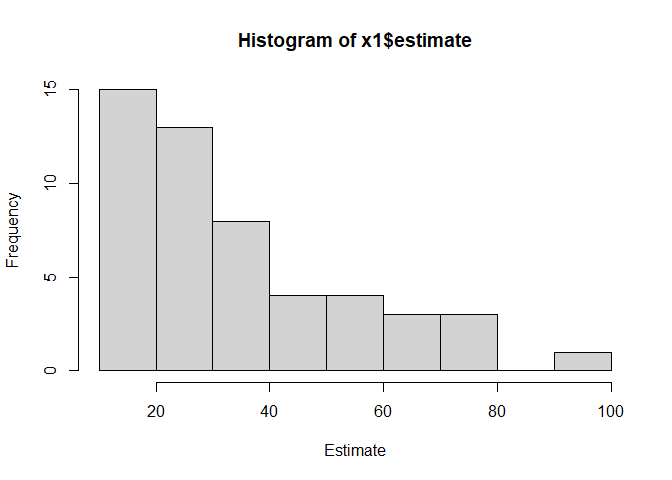
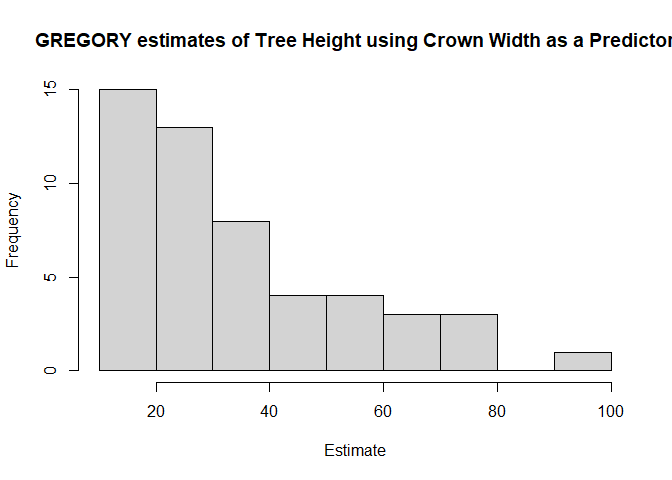
readme updated to display data. Also, modified histogram of gregory estimates example

Changed region(s): [[0.0312, 0.0625, 1.0, 0.125]]

diff --git a/README.md b/README.md
@@ -85,21 +85,60 @@ To use GREGORY, we need 3 different datasets.
 The first dataset is the overall data:
 
 ``` r
-view(dat)
+print(head(dat))
+#>   UserID Tree_Height Crown_Width_NS  DBH Condition   Family
+#> 1      1         105             44 37.4      Fair Pinaceae
+#> 2      2          94             49 32.5      Fair Pinaceae
+#> 3      3          23             28  9.7      Fair Rosaceae
+#> 4      4          28             38 10.3      Poor Fagaceae
+#> 5      5         102             43 33.2      Fair Pinaceae
+#> 6      6          95             35 32.1      Fair Pinaceae
 ```
 
 The second dataset is the means of the predictors at the estimation
 level (Family estimates):
 
 ``` r
-view(dat_x_bar_new)
+print(head(dat_x_bar_new))
+#> Warning: `...` is not empty.
+#> 
+#> We detected these problematic arguments:
+#> * `needs_dots`
+#> 
+#> These dots only exist to allow future extensions and should be empty.
+#> Did you misspecify an argument?
+#> # A tibble: 6 x 2
+#>   Family        Crown_Width_NS
+#>   <chr>                  <dbl>
+#> 1 Adoxaceae              20   
+#> 2 Altingiaceae           40.6 
+#> 3 Anacardiaceae          19.2 
+#> 4 Aquifoliaceae          14.9 
+#> 5 Araliaceae              9   
+#> 6 Arecaceae               9.67
 ```
 
 The third dataset is contains both the resolution and estimation, with
 the proportion of resolution in the given estimation unit:
 
 ``` r
-view(dat_prop)
+print(head(dat_prop))
+#> Warning: `...` is not empty.
+#> 
+#> We detected these problematic arguments:
+#> * `needs_dots`
+#> 
+#> These dots only exist to allow future extensions and should be empty.
+#> Did you misspecify an argument?
+#> # A tibble: 6 x 3
+#>   Condition Family         prop
+#>   <chr>     <chr>         <dbl>
+#> 1 Fair      Adoxaceae     1    
+#> 2 Fair      Altingiaceae  0.907
+#> 3 Fair      Anacardiaceae 0.75 
+#> 4 Fair      Aquifoliaceae 0.875
+#> 5 Fair      Araliaceae    1    
+#> 6 Fair      Arecaceae     1
 ```
 
 ``` r
@@ -114,7 +153,7 @@ x1 <- gregory_all(plot_df = dat %>% drop_na(),
 ```
 
 ``` r
-hist(x1$estimate, title = "GREGORY estimates of Tree Height using Crown Width as a Predictor", xlab = "Estimate")
+hist(x1$estimate, main = "GREGORY estimates of Tree Height using Crown Width as a Predictor", xlab = "Estimate")
 ```
 
 <img src="man/figures/README-unnamed-chunk-9-1.png" width="100%" />
